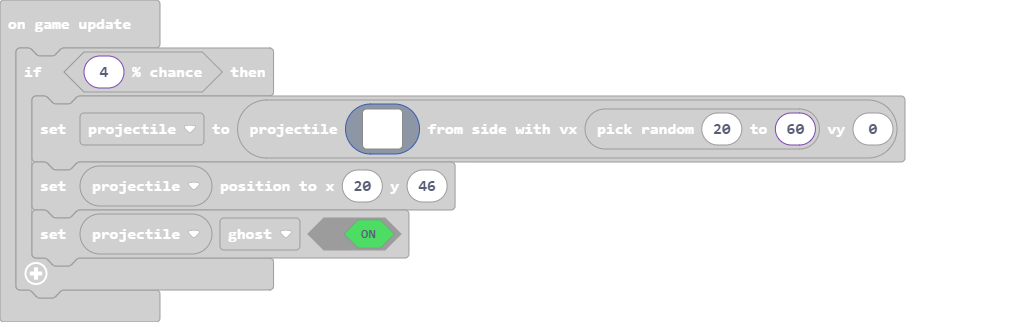
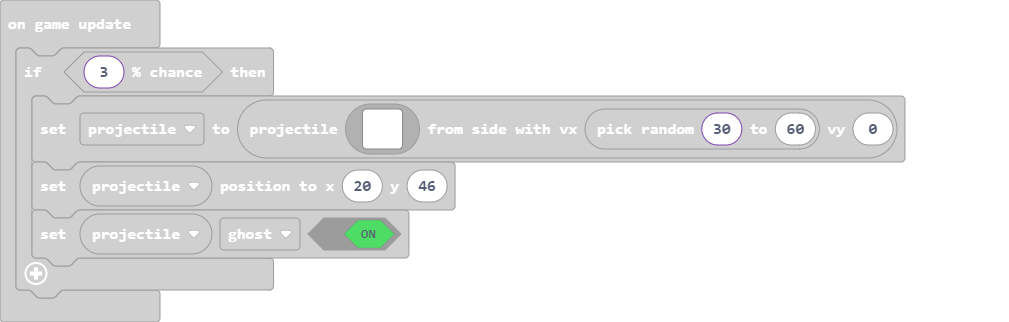
Update main.blocks, main.ts

diff --git a/main.ts b/main.ts
@@ -498,7 +498,7 @@ game.onUpdate(function () {
     }
 })
 game.onUpdate(function () {
-    if (Math.percentChance(4)) {
+    if (Math.percentChance(3)) {
         projectile = sprites.createProjectileFromSide(img`
             . . . . . . . . . . . . . . . . . . . . . . . . . . . . . . . . . . . . . . . . . . . . . . . . . . . . . . . . . . . . . . . . 
             . . . . . . . . . . . . . . . . . . . . . . . . . . . . . . . . . . . . . . . . . . . . . . . . . . . . . . . . . . . . . . . . 
@@ -532,7 +532,7 @@ game.onUpdate(function () {
             . 1 1 1 1 1 1 1 1 1 1 1 1 . . . . . . . . . . . . . . . . . . 1 1 1 1 1 1 1 . . . . . . . . . . . . . . . . . . . . . . . . . . 
             . . . 1 1 1 1 1 1 1 1 1 1 . . . . . . . . . . . . . . . . . . . . . . . . . . . . . . . . . . . . . . . . . . . . . . . . . . . 
             . . . . . . . . . . . . . . . . . . . . . . . . . . . . . . . . . . . . . . . . . . . . . . . . . . . . . . . . . . . . . . . . 
-            `, randint(20, 60), 0)
+            `, randint(30, 60), 0)
         projectile.setPosition(20, 46)
         projectile.setFlag(SpriteFlag.Ghost, true)
     }
